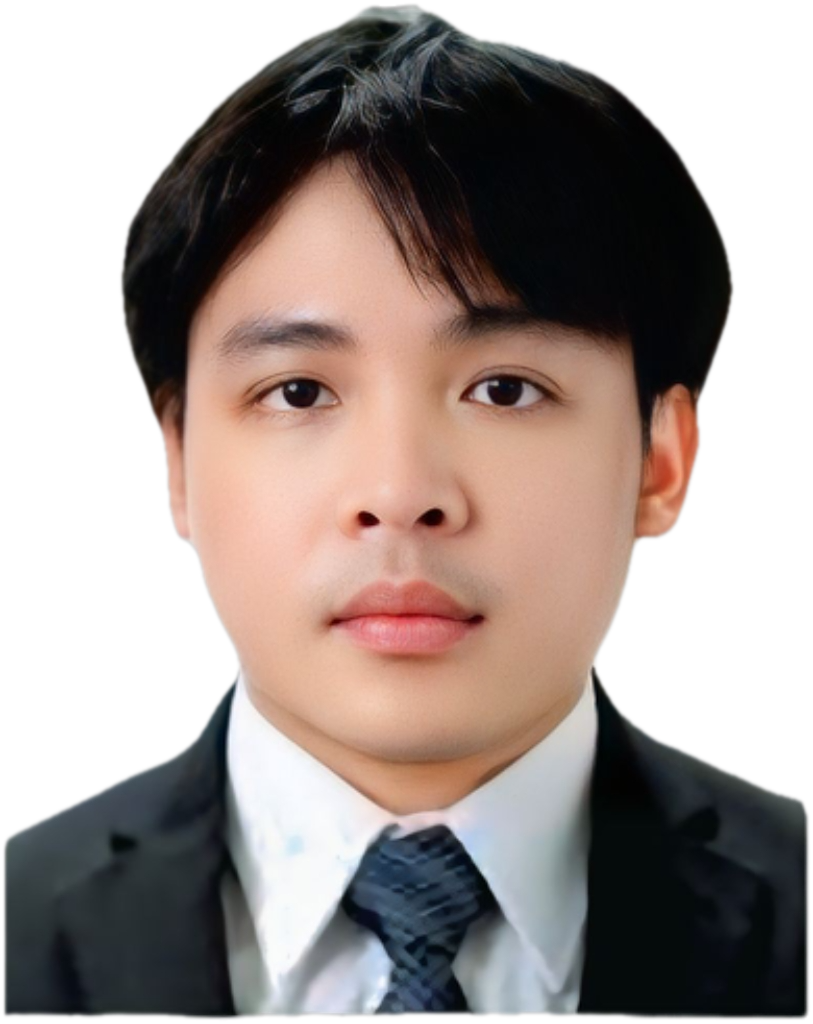
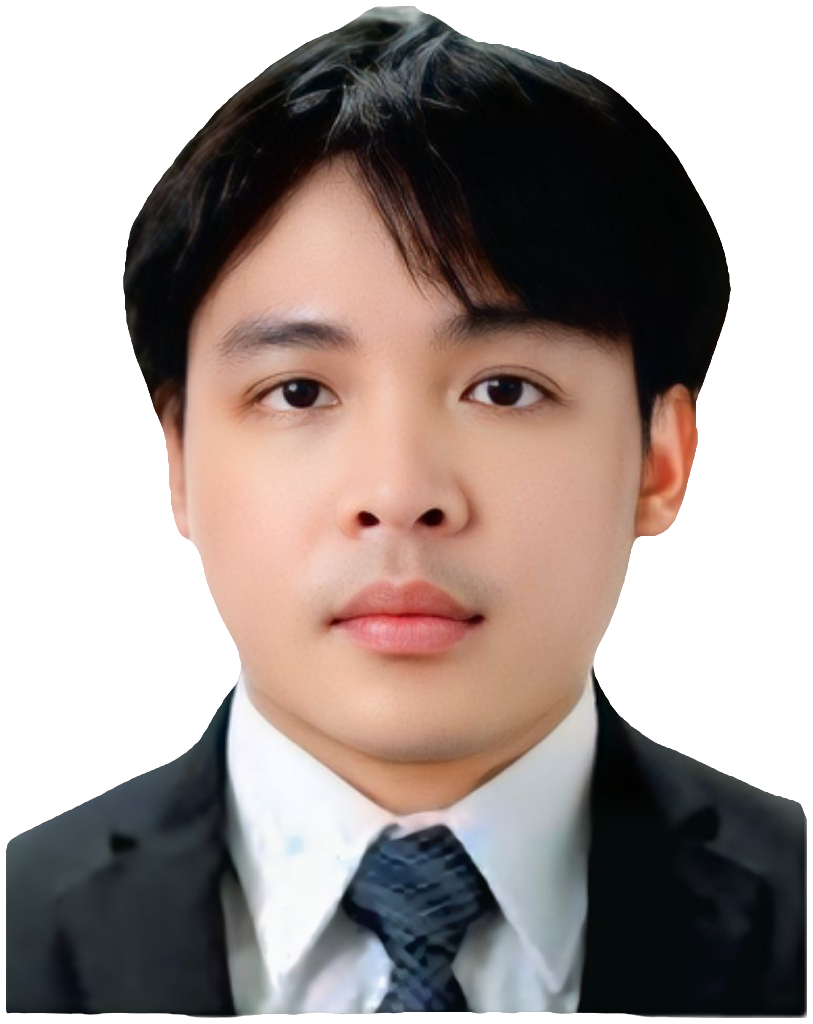
Second critique pass: hard-edged cut-out, tighter MeetRec crop, aligned stats, copy dedupe

diff --git a/lib/data.ts b/lib/data.ts
@@ -6,7 +6,7 @@ export const profile = {
   role: "Software Engineer, Bangkok",
   headline: "One engineer, end to end.",
   tagline:
-    "From a Japanese client brief to a shipped product: code, design, and media, one engineer, one AI workflow.",
+    "I take a Japanese client brief and ship the product myself: code, design, and media, in one AI-driven workflow.",
   jp: "日本語での要件ヒアリングから納品まで、一人で対応します。",
   email: "chu.mangkorn@gmail.com",
   github: "https://github.com/ChuMangkorn",
@@ -45,7 +45,7 @@ export const caseStudies: CaseStudy[] = [
     title: "Shopify store for a Japanese D2C cosmetics brand",
     client: "Japanese D2C cosmetics brand",
     problem:
-      "The brand needed its online store, a nationwide store finder, and seasonal bundle campaigns, all maintained by one engineer against a Japanese-speaking client.",
+      "The brand needed its online store, a nationwide store finder, and seasonal bundle campaigns, maintained by me alone for a Japanese-speaking client.",
     work: [
       "Migrated 40+ products and variants from the client master sheet",
       "Built a store finder covering 300+ drugstore locations with prefecture sort",
@@ -81,7 +81,7 @@ export const caseStudies: CaseStudy[] = [
       src: "/work-meetrec.png",
       alt: "MeetRec subtitle window showing Japanese speech translated to Thai in real time",
       width: 1186,
-      height: 700,
+      height: 440,
     },
   },
   {
@@ -96,17 +96,17 @@ export const caseStudies: CaseStudy[] = [
       "Browser, Photoshop, and Premiere driven from the same workflow",
     ],
     outcome:
-      "One engineer covers requirements, code, QA, images, and video for several clients at once.",
+      "I cover requirements, code, QA, images, and video for several clients at once.",
     stack: ["Claude Code", "MCP", "Playwright", "Node.js"],
     personal: true,
     excerpt: {
       caption: "From the routing table the agent reads at the start of every task",
       lines: [
-        "Bug / broken / slow      -> diagnosing-bugs, then an independent debugger",
-        "New feature / page       -> brainstorm, plan, tdd, code-review",
-        "Check a page in browser  -> playwright, screenshot PC 1440 + SP 390",
-        "Shopify theme / store    -> shiptest first, production after sign-off",
-        "Anything sent outside    -> ask first",
+        "bug or slow         diagnose first, then a second debugger",
+        "new feature         brainstorm, plan, tdd, code review",
+        "check a page        playwright, PC 1440 and SP 390 shots",
+        "shopify store       staging first, production on sign-off",
+        "anything external   ask first",
       ],
     },
   },

diff --git a/components/sections/work.tsx b/components/sections/work.tsx
@@ -24,7 +24,7 @@ function Visual({ c }: { c: CaseStudy }) {
   if (c.excerpt) {
     return (
       <figure className="rounded-card border bg-bg-tint p-5">
-        <pre className="overflow-x-auto font-mono text-xs leading-relaxed text-fg-muted">
+        <pre className="whitespace-pre-wrap font-mono text-xs leading-relaxed text-fg-muted">
           {c.excerpt.lines.join("\n")}
         </pre>
         <figcaption className="mt-3 text-xs text-fg-faint">{c.excerpt.caption}</figcaption>
@@ -55,7 +55,7 @@ function Details({ c }: { c: CaseStudy }) {
       <ul className="space-y-2 text-sm leading-relaxed text-fg">
         {c.work.map((w) => (
           <li key={w} className="flex gap-3">
-            <span aria-hidden className="mt-[0.7em] h-px w-3 shrink-0 bg-accent" />
+            <span aria-hidden className="mt-[0.65rem] h-0.5 w-3 shrink-0 bg-accent" />
             {w}
           </li>
         ))}

diff --git a/components/sections/about.tsx b/components/sections/about.tsx
@@ -15,8 +15,8 @@ export function About() {
         <Reveal delay={0.1}>
           <dl className="mt-16 grid grid-cols-2 gap-x-8 gap-y-10 md:grid-cols-4">
             {about.stats.map((s) => (
-              <div key={s.label}>
-                <dt className="order-2 mt-2 text-sm leading-snug text-fg-muted">{s.label}</dt>
+              <div key={s.label} className="flex flex-col-reverse">
+                <dt className="mt-2 text-sm leading-snug text-fg-muted">{s.label}</dt>
                 <dd className="font-mono text-4xl tracking-tight text-fg md:text-5xl">{s.value}</dd>
               </div>
             ))}

diff --git a/components/sections/hero.tsx b/components/sections/hero.tsx
@@ -52,7 +52,7 @@ export function Hero() {
         <div className="relative aspect-[4/5] w-full max-w-portrait overflow-hidden rounded-portrait bg-bg-raised">
           <div
             aria-hidden
-            className="absolute inset-0 bg-[radial-gradient(ellipse_at_50%_35%,color-mix(in_oklab,var(--accent)_28%,transparent)_0%,transparent_62%)]"
+            className="absolute inset-0 bg-[radial-gradient(ellipse_at_50%_30%,color-mix(in_oklab,var(--accent)_45%,transparent)_0%,transparent_62%)]"
           />
           <Image
             src={profile.photo}
